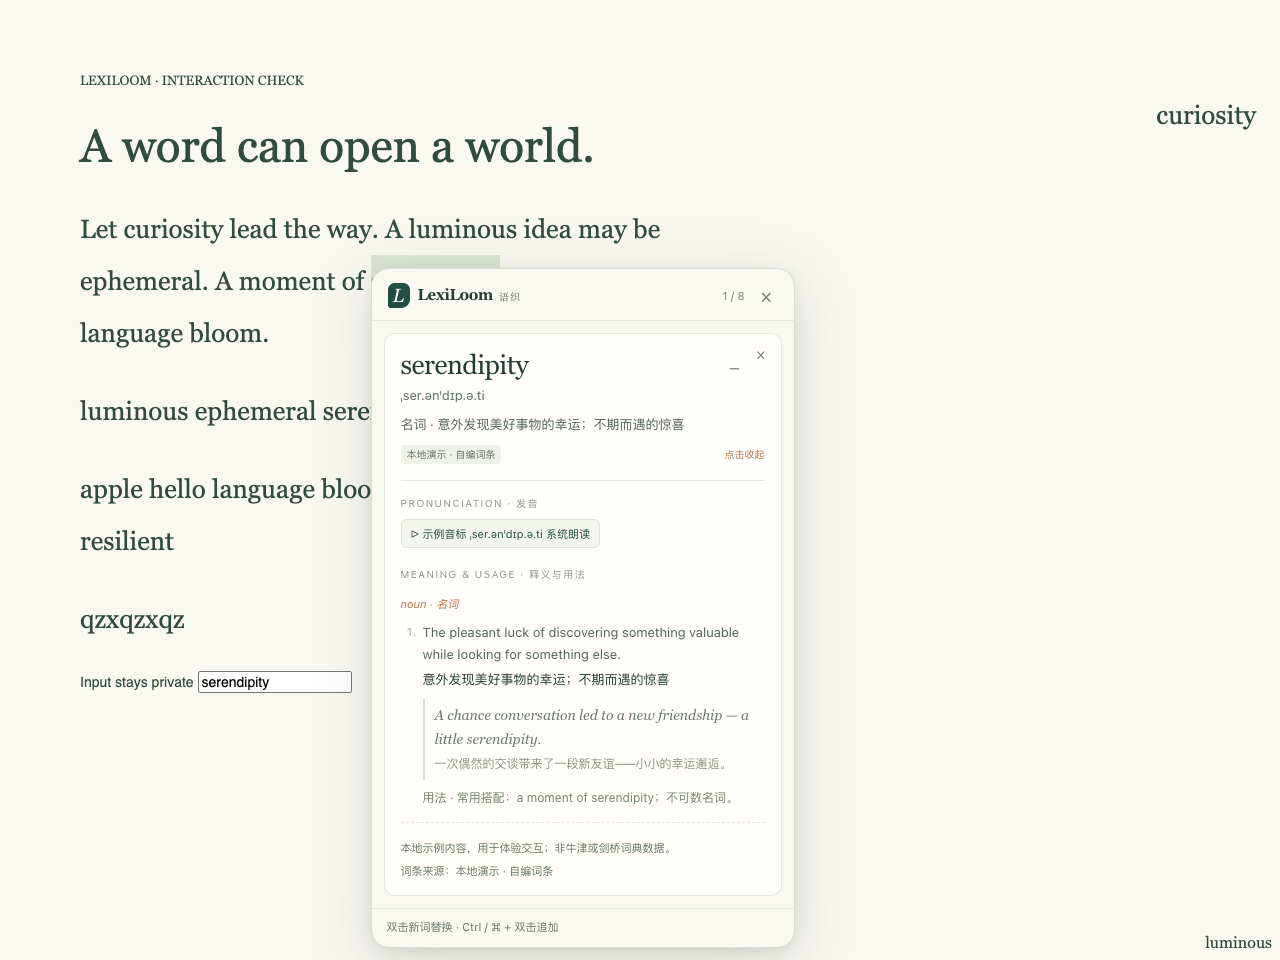
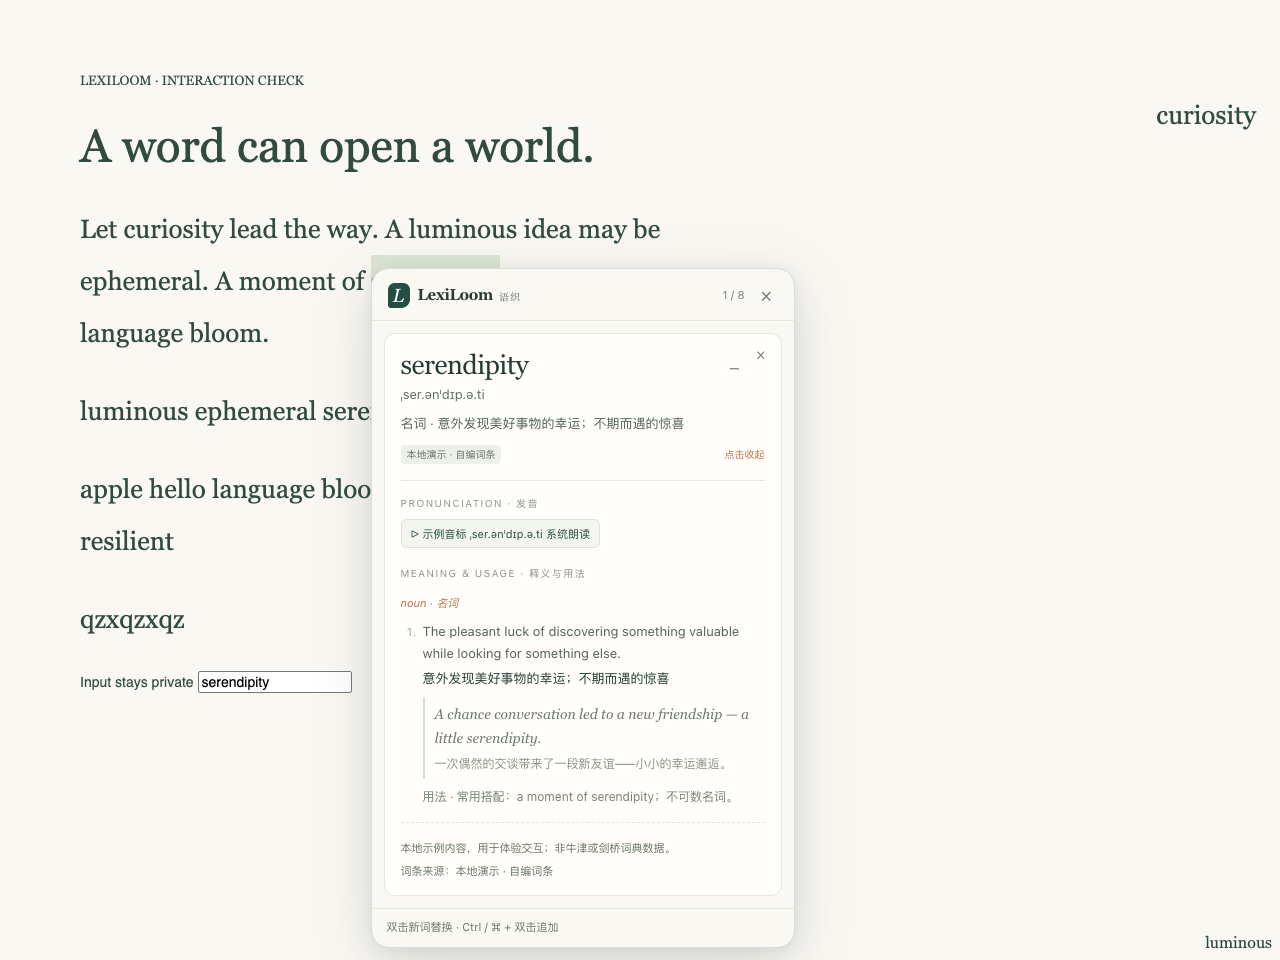
fix: harden macOS Chromium QA against reduced motion and lookup races
Force prefers-reduced-motion off on runners, wait for card busy/loading state, and keep animation probe details on failure so CI does not treat a missing width transition as a product bug.

diff --git a/tools/browser-qa.js b/tools/browser-qa.js
@@ -8,6 +8,7 @@ import { fileURLToPath } from 'node:url';
 import assert from 'node:assert/strict';
 import { openLocaleHarness } from './browser-test-harness.js';
 import { probeExpansion, hasLinearExpansion } from './browser-animation-probe.js';
+import { waitForLookupState } from './browser-lookup-wait.js';
 const { chromium } = await import(process.env.PLAYWRIGHT_MODULE || 'playwright-core');
 const root = fileURLToPath(new URL('../', import.meta.url));
 const docs = join(root, 'docs'); await mkdir(docs, { recursive: true });
@@ -16,7 +17,11 @@ const catalog = JSON.parse(await readFile(join(root, 'extension/_locales/zh_CN/m
 const savedText = catalog.saved.message;
 const notFoundText = catalog.notFound.message;
 const report = { version: pkg.version, platform: process.platform, node: process.version, browser: '', checks: [], liveFree: null, liveWiktionary: null, uiLanguage: 'zh-CN', localeMode: 'shimmed chrome.i18n.getUILanguage' };
-const check = (name, value) => { assert.ok(value, name); report.checks.push(name); console.log(`PASS ${name}`); };
+const check = (name, value, detail = '') => {
+  assert.ok(value, detail ? `${name}: ${detail}` : name);
+  report.checks.push(name);
+  console.log(`PASS ${name}`);
+};
 let harness;
 try {
   harness = await openLocaleHarness(chromium, 'zh-CN', { blockNetwork: false });
@@ -38,6 +43,10 @@ try {
   });
   const cdp = await context.newCDPSession(page);
   await cdp.send('DOM.enable');
+  await page.emulateMedia({ reducedMotion: 'no-preference' });
+  await cdp.send('Emulation.setEmulatedMedia', {
+    features: [{ name: 'prefers-reduced-motion', value: 'no-preference' }]
+  });
   function find(node, predicate) {
     if (predicate(node)) return node;
     for (const child of [...(node.children || []), ...(node.shadowRoots || [])]) { const value = find(child, predicate); if (value) return value; }
@@ -58,31 +67,48 @@ try {
   }
   const pause = ms => new Promise(resolve => setTimeout(resolve, ms));
   async function waitPanel(selector = '.panel') {
-    for(let n=0;n<40;n++){ if(await panelValue(selector,'return true')) return; await pause(50); }
+    for (let n = 0; n < 80; n++) { if (await panelValue(selector, 'return true')) return; await pause(50); }
     throw new Error(`Missing ${selector}`);
   }
-  async function ready() {
-    for(let n=0;n<40;n++){ if(await panelValue('.cards','return this.querySelectorAll("[aria-busy=true]").length === 0')) return; await pause(50); }
-    throw new Error('Lookup did not finish');
+  async function readLookupState() {
+    return panelValue('.panel', `return (() => {
+      const cards = [...this.querySelectorAll('.card')].map(card => ({
+        word: card.querySelector('.word')?.textContent || '',
+        busy: card.getAttribute('aria-busy') === 'true',
+        loading: !!card.querySelector('.summary-text.loading')
+      }));
+      return { cards };
+    })()`);
   }
-  await page.locator('#serendipity').dblclick(); await waitPanel(); await ready();
+  async function ready(words) {
+    return waitForLookupState(readLookupState, words, { timeoutMs: 15000, pollIntervalMs: 50 });
+  }
+  async function forceMotion(preference) {
+    await page.emulateMedia({ reducedMotion: preference });
+    await cdp.send('Emulation.setEmulatedMedia', {
+      features: [{ name: 'prefers-reduced-motion', value: preference === 'reduce' ? 'reduce' : 'no-preference' }]
+    });
+  }
+  await page.locator('#serendipity').dblclick(); await waitPanel(); await ready(['serendipity']);
   console.log('First card:', await panelValue('.summary-text','return this.textContent'));
   check('unpacked MV3 extension loads and double-click returns a Chinese demo card', (await panelValue('.summary-text','return this.textContent')).includes('意外'));
+  report.motionPreference = await page.evaluate(() => matchMedia('(prefers-reduced-motion: reduce)').matches);
+  check('animation suite starts with reduced-motion disabled', report.motionPreference === false, JSON.stringify(report.motionPreference));
   report.animation = await panelValue('.panel', `return (${probeExpansion.toString()}).call(this)`);
   console.log('Expansion timeline:', JSON.stringify(report.animation));
-  check('280ms linear expansion interpolates at 25%, 50% and 75% and completes', hasLinearExpansion(report.animation));
+  check('280ms linear expansion interpolates at 25%, 50% and 75% and completes', hasLinearExpansion(report.animation), JSON.stringify(report.animation));
   await panelValue('.summary', 'this.click()');
-  await harness.waitForPanel('.panel', 'return this.getAnimations({subtree:true}).length === 0 && Math.abs(this.getBoundingClientRect().width - 312) < .5');
+  await harness.waitForPanel('.panel', 'return Math.abs(this.getBoundingClientRect().width - 312) < .5');
   report.stalledAnimation = await panelValue('.panel', `return (${probeExpansion.toString()}).call(this, {stallMs: 500})`);
-  check('expansion timeline remains testable after a 500ms renderer stall', hasLinearExpansion(report.stalledAnimation));
+  check('expansion timeline remains testable after a 500ms renderer stall', hasLinearExpansion(report.stalledAnimation), JSON.stringify(report.stalledAnimation));
   check('expanded card exposes example and pronunciation', await panelValue('.details','return !!this.querySelector(".example") && !!this.querySelector(".pronunciation")'));
   check('Chinese card retains translation and usage', await panelValue('.details', 'return !!this.querySelector(".translation") && !!this.querySelector(".usage")'));
   await page.screenshot({ path: join(docs,'browser-single.png') });
-  await page.emulateMedia({ reducedMotion: 'reduce' });
+  await forceMotion('reduce');
   await panelValue('.summary', 'this.click()');
   report.reducedMotion = await panelValue('.panel', `return (${probeExpansion.toString()}).call(this)`);
-  check('reduced-motion preference expands immediately without a width transition', report.reducedMotion.reducedMotion && report.reducedMotion.duration === null && Math.abs(report.reducedMotion.expanded - 424) < .5);
-  await page.emulateMedia({ reducedMotion: 'no-preference' });
+  check('reduced-motion preference expands immediately without a width transition', report.reducedMotion.reducedMotion && report.reducedMotion.duration === null && Math.abs(report.reducedMotion.expanded - 424) < .5, JSON.stringify(report.reducedMotion));
+  await forceMotion('no-preference');
   await page.keyboard.press('Escape');
   check('Escape closes panel', !await panelValue('.panel','return true'));
   await page.locator('#input').dblclick(); await pause(300);
@@ -92,7 +118,7 @@ try {
   const multiBox = await page.locator('#multi').boundingBox();
   await page.mouse.move(multiBox.x+multiBox.width-1,multiBox.y+15); await page.mouse.up();
   await waitPanel('.launcher');
-  await panelValue('.launcher','this.click()'); await waitPanel(); await ready();
+  await panelValue('.launcher','this.click()'); await waitPanel(); await ready(['luminous', 'ephemeral', 'serendipity']);
   check('multi-selection creates three connected cards', await panelValue('.cards','return this.children.length === 3'));
   await panelValue('.card:nth-child(1) .summary','this.click()');
   await panelValue('.card:nth-child(3) .summary','this.click()'); await pause(330);
@@ -101,15 +127,14 @@ try {
   await panelValue('.card:nth-child(2) .remove','this.click()');
   check('individual card removal keeps chain open', await panelValue('.cards','return this.children.length === 2'));
   await page.locator('#append').dblclick({ modifiers: [process.platform === 'darwin' ? 'Meta' : 'Control'] });
-  for(let n=0;n<30;n++){if(await panelValue('.cards','return this.children.length === 3'))break;await pause(50);}
-  await ready();
+  await ready(['luminous', 'serendipity', 'curiosity']);
   check('Ctrl / Command + double-click appends a word', await panelValue('.cards','return this.children.length === 3 && this.textContent.includes("curiosity")'));
   await page.mouse.click(20,20); check('outside click closes cards', !await panelValue('.panel','return true'));
-  await page.locator('#bottom').dblclick(); await ready(); await panelValue('.summary','this.click()'); await pause(340);
+  await page.locator('#bottom').dblclick(); await ready(['luminous']); await panelValue('.summary','this.click()'); await pause(340);
   check('expanded card stays inside viewport at bottom-right selection', await panelValue('.panel','const r=this.getBoundingClientRect();return r.left>=0 && r.right<=innerWidth && r.top>=0 && r.bottom<=innerHeight'));
   await page.keyboard.press('Escape');
   await page.setViewportSize({ width: 390, height: 844 });
-  await page.locator('#curiosity').dblclick(); await ready(); await panelValue('.summary','this.click()'); await pause(340);
+  await page.locator('#curiosity').dblclick(); await ready(['curiosity']); await panelValue('.summary','this.click()'); await pause(340);
   check('expanded card fits a 390px viewport', await panelValue('.panel','const r=this.getBoundingClientRect();return r.left>=0 && r.right<=innerWidth'));
   await page.screenshot({ path: join(docs,'browser-narrow.png') });
   await page.keyboard.press('Escape');
@@ -131,7 +156,7 @@ try {
   await worker.evaluate(payload => { globalThis.__LEXILOOM_QA_REQUESTS__=[];globalThis.fetch=async (url,init)=>{if(String(url).startsWith('chrome-extension://'))return globalThis.__LEXILOOM_QA_FETCH__(url,init);globalThis.__LEXILOOM_QA_REQUESTS__.push(String(url));return Response.json(payload);}; }, wikiFixture);
   await options.evaluate(()=>chrome.runtime.sendMessage({type:'SAVE_SETTINGS',settings:{enabled:true,provider:'smart',englishProvider:'free'}}));
   await page.setViewportSize({width:1280,height:960}); await page.bringToFront();
-  await page.locator('#serendipity').dblclick(); await waitPanel(); await ready();
+  await page.locator('#serendipity').dblclick(); await waitPanel(); await ready(['serendipity']);
   check('Chinese-first mode renders Chinese definitions through the background', (await panelValue('.summary-text','return this.textContent')).includes('原创测试'));
   await panelValue('.summary','this.click()'); await pause(340);
   check('dictionary card retains its source, license and examples', await panelValue('.details', 'return !!this.querySelector(".source-license") && !!this.querySelector(".example-reference") && this.textContent.includes("WiktApi")'));
@@ -141,7 +166,7 @@ try {
   await page.keyboard.press('Escape');
   const freeFixture = [{meanings:[{partOfSpeech:'noun',definitions:[{definition:'An original fallback dictionary definition.'}]}]}];
   await worker.evaluate(payload => { globalThis.fetch=async (url,init)=>String(url).startsWith('chrome-extension://')?globalThis.__LEXILOOM_QA_FETCH__(url,init):String(url).includes('wiktapi.dev')?new Response('{}',{status:404}):Response.json(payload); }, freeFixture);
-  await page.locator('#serendipity').dblclick(); await waitPanel(); await ready();
+  await page.locator('#serendipity').dblclick(); await waitPanel(); await ready(['serendipity']);
   check('English fallback is labelled with its actual source and visible reason', await panelValue('.card', 'return this.textContent.includes("Free Dictionary") && !this.querySelector(".lookup-notice").hidden'));
   await page.keyboard.press('Escape');
   await options.evaluate(()=>chrome.runtime.sendMessage({type:'SAVE_SETTINGS',settings:{enabled:true,provider:'free'}}));
@@ -149,7 +174,7 @@ try {
   await worker.evaluate(() => { globalThis.fetch = async (url,init) => { if(String(url).startsWith('chrome-extension://'))return globalThis.__LEXILOOM_QA_FETCH__(url,init);await new Promise(resolve=>setTimeout(resolve,250)); return new Response('{}',{status:404,headers:{'Content-Type':'application/json'}}); }; });
   await page.setViewportSize({width:1280,height:960});
   await page.bringToFront();
-  await page.locator('#missing').dblclick({position:{x:20,y:20}}); await waitPanel(); await ready();
+  await page.locator('#missing').dblclick({position:{x:20,y:20}}); await waitPanel(); await ready(['qzxqzxqz']);
   const missingText = await panelValue('.summary-text','return this.textContent');
   check('a confirmed HTTP 404 shows the Chinese no-word text', missingText === notFoundText);
   await page.keyboard.press('Escape');

diff --git a/tools/browser-lookup-wait.js b/tools/browser-lookup-wait.js
@@ -1,0 +1,38 @@
+// Wait for this interaction's cards, rather than any idle or absent panel.
+// readState is supplied by the browser harness so failures retain a DOM snapshot.
+export async function waitForLookupState(readState, expectedWords, { timeoutMs = 15000, pollIntervalMs = 50 } = {}) {
+  if (typeof readState !== 'function') throw new TypeError('readState must be a function.');
+  if (!Array.isArray(expectedWords) || expectedWords.length === 0
+    || expectedWords.some(word => typeof word !== 'string' || !word.trim())) {
+    throw new TypeError('expectedWords must be a non-empty array of non-empty words.');
+  }
+  if (!Number.isFinite(timeoutMs) || timeoutMs < 0
+    || !Number.isFinite(pollIntervalMs) || pollIntervalMs < 0) {
+    throw new TypeError('Lookup timing values must be finite, non-negative milliseconds.');
+  }
+
+  const expected = [...new Set(expectedWords)];
+  const expectedSet = new Set(expected);
+  const started = performance.now();
+  const deadline = started + timeoutMs;
+  for (;;) {
+    // Do not swallow protocol/evaluation errors as an ordinary lookup timeout.
+    const state = await readState();
+    const cards = state?.cards;
+    let reason;
+    if (state === null) reason = 'panel-missing';
+    else if (!Array.isArray(cards)) throw new TypeError('Lookup state must be null or contain a cards array.');
+    else if (cards.length !== expected.length || new Set(cards.map(card => card.word)).size !== expected.length
+      || cards.some(card => !expectedSet.has(card.word))) reason = 'word-mismatch';
+    else if (cards.some(card => card.busy !== false || card.loading !== false)) reason = 'lookup-pending';
+
+    const elapsedMs = performance.now() - started;
+    if (!reason) return { elapsedMs, expectedWords: expected, state };
+    if (performance.now() >= deadline) {
+      const error = new Error(`Lookup did not finish: ${reason}; expected ${JSON.stringify(expected)}; state ${JSON.stringify(state)}`);
+      Object.assign(error, { code: 'LOOKUP_TIMEOUT', expectedWords: expected, state, elapsedMs, reason });
+      throw error;
+    }
+    await new Promise(resolve => setTimeout(resolve, Math.min(pollIntervalMs, Math.max(0, deadline - performance.now()))));
+  }
+}

diff --git a/tools/browser-animation-probe.js b/tools/browser-animation-probe.js
@@ -7,22 +7,34 @@ export async function probeExpansion({ stallMs = 0 } = {}) {
   const reducedMotion = matchMedia('(prefers-reduced-motion: reduce)').matches;
   this.querySelector('.summary').click();
   const afterClick = width(); // Flush the new style to create the transition.
-  const transition = this.getAnimations().find(animation => animation.transitionProperty === 'width');
-  if (!transition) return { collapsed, expanded: afterClick, reducedMotion, samples: [], duration: null };
+  const transition = this.getAnimations({ subtree: false })
+    .find(animation => animation.transitionProperty === 'width' || animation.transitionProperty === 'all');
+  if (!transition) {
+    return {
+      collapsed, expanded: afterClick, reducedMotion, samples: [], duration: null, easing: null, stallMs,
+      reason: reducedMotion ? 'reduced-motion' : 'missing-width-transition'
+    };
+  }
 
   // Capture and pause in this same task, before the runner can skip frames.
   transition.pause();
-  const { duration, easing } = transition.effect.getTiming();
+  const timing = transition.effect.getTiming();
+  const duration = Number(timing.duration);
+  const easing = timing.easing;
   const stallStart = performance.now();
   while (performance.now() - stallStart < stallMs) { /* Deliberate QA-only dropped-frame regression. */ }
   const samples = [0.25, 0.5, 0.75].map(progress => {
-    transition.currentTime = Number(duration) * progress;
+    transition.currentTime = duration * progress;
     return { progress, width: width() };
   });
   // Let the remaining transition complete naturally; no fixed frame deadline.
   transition.play();
   await transition.finished;
-  await Promise.all(this.getAnimations({ subtree: true }).map(animation => animation.finished));
+  const finite = this.getAnimations({ subtree: true }).filter(animation => {
+    const total = Number(animation.effect?.getTiming?.().duration);
+    return Number.isFinite(total) && total < 10_000 && animation.playState !== 'idle';
+  });
+  await Promise.all(finite.map(animation => animation.finished.catch(() => {})));
   return { collapsed, samples, expanded: width(), duration, easing, reducedMotion, stallMs };
 }
 

diff --git a/tests/browser-helpers.test.js b/tests/browser-helpers.test.js
@@ -1,0 +1,37 @@
+import test from 'node:test';
+import assert from 'node:assert/strict';
+import { hasLinearExpansion } from '../tools/browser-animation-probe.js';
+import { waitForLookupState } from '../tools/browser-lookup-wait.js';
+
+test('linear expansion accepts exact 280ms samples and rejects reduced motion', () => {
+  const ok = {
+    collapsed: 312, expanded: 424, duration: 280, easing: 'linear', reducedMotion: false,
+    samples: [{ progress: 0.25, width: 340 }, { progress: 0.5, width: 368 }, { progress: 0.75, width: 396 }]
+  };
+  assert.equal(hasLinearExpansion(ok), true);
+  assert.equal(hasLinearExpansion({ ...ok, reducedMotion: true, duration: null, samples: [] }), false);
+  assert.equal(hasLinearExpansion({ ...ok, duration: 200 }), false);
+  assert.equal(hasLinearExpansion({ ...ok, samples: ok.samples.slice(0, 2) }), false);
+});
+
+test('lookup wait resolves on matching idle cards and times out with a reason', async () => {
+  let tick = 0;
+  const result = await waitForLookupState(() => {
+    tick += 1;
+    if (tick < 3) return { cards: [{ word: 'serendipity', busy: true, loading: true }] };
+    return { cards: [{ word: 'serendipity', busy: false, loading: false }] };
+  }, ['serendipity'], { timeoutMs: 1000, pollIntervalMs: 1 });
+  assert.deepEqual(result.expectedWords, ['serendipity']);
+  assert.equal(result.state.cards[0].busy, false);
+
+  await assert.rejects(
+    () => waitForLookupState(() => ({ cards: [{ word: 'other', busy: false, loading: false }] }), ['serendipity'], {
+      timeoutMs: 20, pollIntervalMs: 5
+    }),
+    error => error.code === 'LOOKUP_TIMEOUT' && error.reason === 'word-mismatch'
+  );
+  await assert.rejects(
+    () => waitForLookupState(() => null, ['serendipity'], { timeoutMs: 20, pollIntervalMs: 5 }),
+    error => error.code === 'LOOKUP_TIMEOUT' && error.reason === 'panel-missing'
+  );
+});

diff --git a/tools/browser-test-harness.js b/tools/browser-test-harness.js
@@ -58,14 +58,23 @@ export async function openLocaleHarness(chromium, tag, { blockNetwork = true } =
     await options.goto(`chrome-extension://${extensionId}/options.html`);
     await options.evaluate(async () => { await globalThis.LexiLoomI18n.ready; });
     const page = await context.newPage();
+    // GitHub macOS runners can inherit OS "Reduce motion". Context options are not
+    // always enough for later media checks, so force the feature on every page.
+    await page.emulateMedia({ reducedMotion: 'no-preference' });
     const errors = [];
-    context.on('page', candidate => candidate.on('pageerror', error => errors.push(error.message)));
+    context.on('page', candidate => {
+      candidate.on('pageerror', error => errors.push(error.message));
+      candidate.on('load', () => { void candidate.emulateMedia({ reducedMotion: 'no-preference' }); });
+    });
     page.on('pageerror', error => errors.push(error.message));
     const html = await readFile(join(root, 'tests/fixtures/reading.html'), 'utf8');
     await context.route('http://locale.lexiloom.test/**', route => route.fulfill({ contentType: 'text/html', body: html }));
     await page.goto('http://locale.lexiloom.test/');
     const cdp = await context.newCDPSession(page);
     await cdp.send('DOM.enable');
+    await cdp.send('Emulation.setEmulatedMedia', {
+      features: [{ name: 'prefers-reduced-motion', value: 'no-preference' }]
+    });
     function find(node, predicate) {
       if (predicate(node)) return node;
       for (const child of [...(node.children || []), ...(node.shadowRoots || [])]) {

diff --git a/CHANGELOG.en.md b/CHANGELOG.en.md
@@ -10,6 +10,7 @@
 - Settings saves update only the supplied fields, preserving pause state and preferences changed in another window.
 - Packaging writes both the unpacked-extension layout and a store layout with the manifest at its root. Added UI regressions and current validation notes.
 - Fixed a macOS CI animation sampling false failure by checking the real transition timeline, retaining linear expansion assertions and adding renderer-stall and reduced-motion regressions.
+- Hardened browser QA further: force `prefers-reduced-motion: no-preference` through Playwright and CDP on runners, wait for lookup completion by card busy/loading state (`browser-lookup-wait.js`), and include animation probe details on failure.
 
 ## 0.3.0 · 2026-10-31
 

diff --git a/docs/VALIDATION.md b/docs/VALIDATION.md
@@ -42,6 +42,8 @@
 
 **以上修复已完成本机验证，修复提交的远程三平台 CI 需要在用户推送后另行确认。** 不能把旧提交的通过记录当作本次修复的远程验收。
 
+后续观察：`2ecc536` 在 Ubuntu / Windows 通过后，macOS 仍在「Run actual Chromium extension checks」失败。本机 macOS 连跑浏览器 QA 可通过。继续加固：强制关闭 runner 继承的 Reduce Motion、按词卡状态等待查词完成，并在断言失败时输出动画探测 JSON。仍须以推送后的三平台 Actions 结果为准。
+
 ## 保留的限制
 
 - Oxford / Cambridge 没有真实授权凭据联调证据；fixture 通过不代表官方 API 已连接。

diff --git a/CHANGELOG.md b/CHANGELOG.md
@@ -10,6 +10,7 @@
 - 设置保存改为局部更新，避免改地区时意外启用查词，或弹窗覆盖另一个窗口刚保存的设置。
 - 打包同时生成本地加载包和根目录 manifest 的商店布局包。补充 UI 回归及当前版本的验收记录。
 - 修正 macOS CI 的动画采样误报：直接检查真实过渡时轴，保留匀速展开断言，并补充主线程阻塞和减少动态效果偏好的回归检查。
+- 浏览器 QA 再加固：用 CDP / Playwright 强制关闭 runner 上的「减少动态效果」；查词完成改为按词卡 busy/loading 状态等待（`browser-lookup-wait.js`），失败时带上动画探测细节。
 
 ## 0.3.0 · 2026-10-31
 
